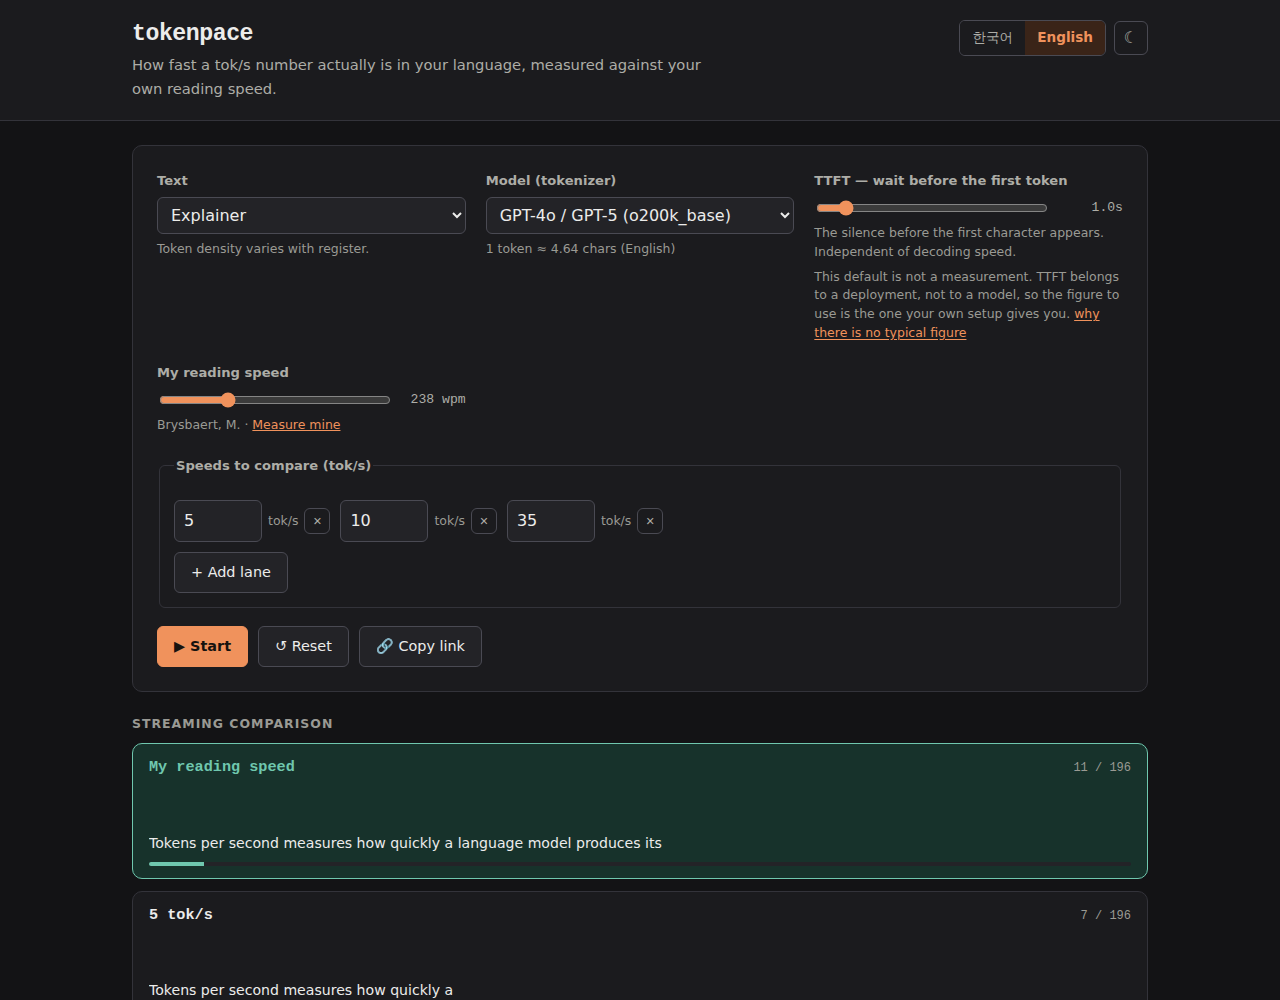
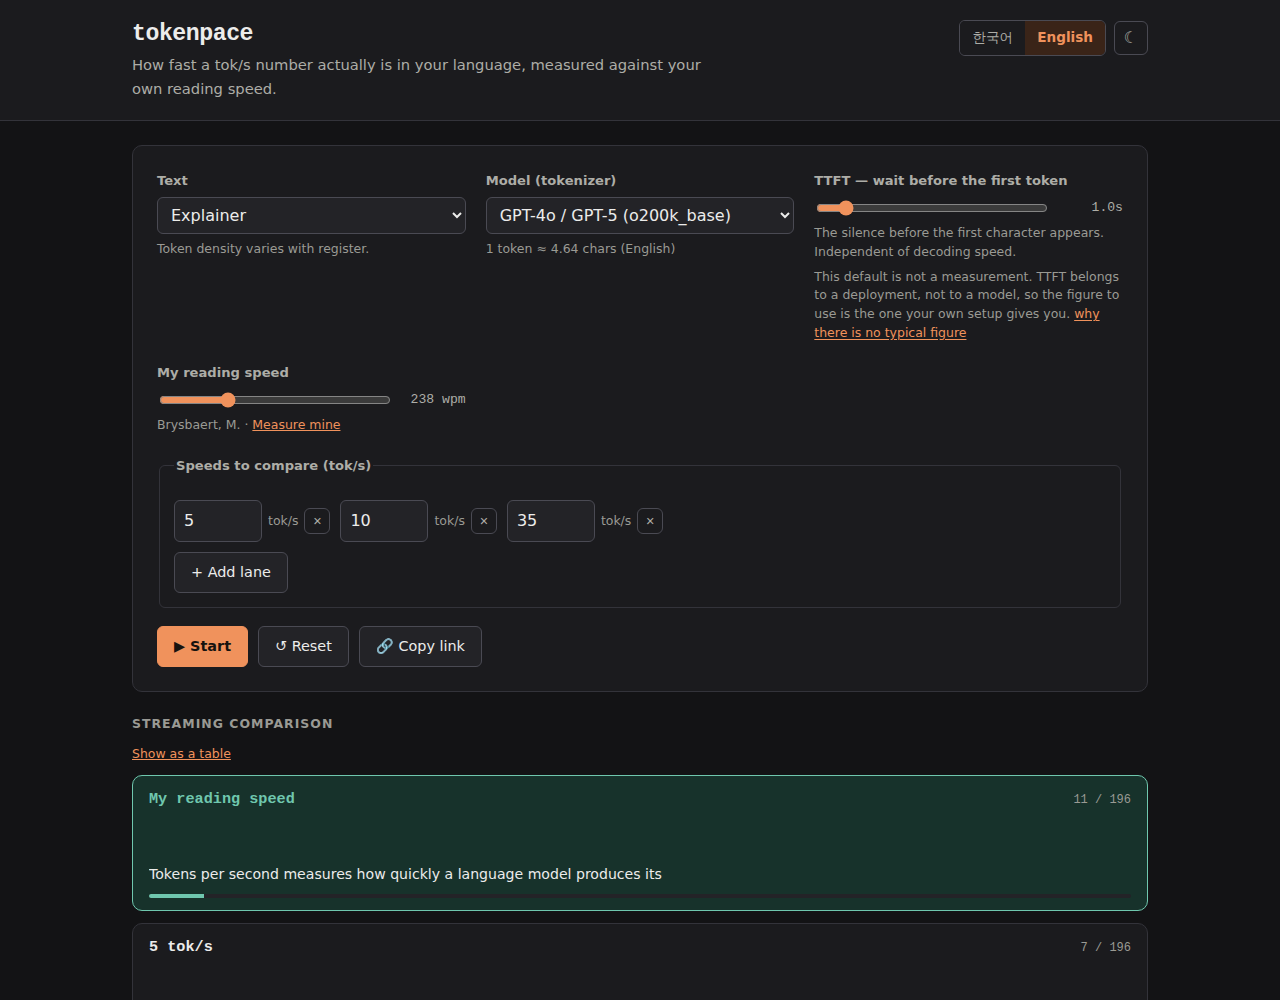
fix: one slider drag was queueing 15,000 characters of speech
axe passes on this page in four states and has done since the day it was
wired up. It reads a page standing still, so it cannot see how often a
live region changes — and that was the whole problem.

Measured it instead. Instrumented every live region in a real browser and
performed a realistic TTFT slider drag: 31 input events over 1.8 seconds,
which is one ordinary gesture. The verdict block carries aria-live and
renderVerdict() runs on every input event, so the drag replaced a
414-character region 33 times. Roughly fifteen thousand characters queued
for one gesture. The control is unusable with a screen reader.

The design decision recorded in the brief was "aria-live on the verdict,
never on the streaming text". Half of it was right for the wrong reason:
the streaming text is safe because nothing announces it, and playback
mutates the lanes about 1,700 times in six seconds. The other half was
simply wrong. The verdict is a section, and a live region should carry a
sentence.

So: one live region for the whole page, and one sentence at a time.
Dragging now costs a single 67-character announcement, once the value
settles. Nothing is announced until the visitor has actually interacted,
because speaking the verdict at someone who just arrived interrupts them
reading it.

Playback used to be silent — the race the page is built around simply did
not exist for a screen reader user. It now says how many lanes started
[…]

Changed region(s): [[0.0938, 0.837, 0.9062, 1.0], [0.0938, 0.744, 0.9062, 0.806]]

diff --git a/assets/js/main.js b/assets/js/main.js
@@ -252,6 +252,44 @@ function scheduleRerender() {
   }, 200);
 }
 
+/* ───────────────────────────────────────────────────────────── announcing */
+
+/**
+ * Everything a screen reader is told goes through one short live region.
+ *
+ * The verdict block used to carry aria-live itself, and renderVerdict() runs on
+ * every `input` event. Measured on 2026-09-03: a 1.8-second drag of the TTFT
+ * slider replaced a 414-character live region 32 times, queueing roughly
+ * thirteen thousand characters of speech for one gesture. The control was
+ * unusable with a screen reader while looking perfectly fine to axe, which has
+ * no way to see how often a region changes.
+ *
+ * Two rules follow. Announcements are a sentence, not a section — the detail
+ * stays on screen where it can be read at leisure. And a value being dragged
+ * announces when it settles, not while it moves.
+ */
+const announcer = () => document.getElementById('announcer');
+let announceTimer = null;
+/** Nothing is announced until the visitor has done something. Speaking the
+ *  verdict at someone who has just arrived interrupts them reading the page. */
+let announcementsArmed = false;
+export function armAnnouncements() { announcementsArmed = true; }
+
+function announce(text, { delay = 0 } = {}) {
+  if (!announcementsArmed) return;
+  clearTimeout(announceTimer);
+  const say = () => {
+    const node = announcer();
+    if (!node || node.textContent === text) return;
+    node.textContent = text;
+  };
+  if (delay) announceTimer = setTimeout(say, delay);
+  else say();
+}
+
+/** Should the lanes be a table rather than an animation? */
+const showTimeline = () => state.timeline ?? prefersReducedMotion();
+
 /* ────────────────────────────────────────────────────────────────── lanes */
 
 let laneNodes = [];
@@ -265,7 +303,13 @@ function renderLanes() {
 
   $('#reduced-motion-note').hidden = !prefersReducedMotion();
 
-  if (prefersReducedMotion()) {
+  const toggle = $('#view-toggle');
+  if (toggle) {
+    toggle.setAttribute('aria-pressed', String(showTimeline()));
+    toggle.textContent = showTimeline() ? t().viewAsLanes : t().viewAsTable;
+  }
+
+  if (showTimeline()) {
     list.replaceChildren(renderStaticTimeline(lanes));
     return;
   }
@@ -367,18 +411,31 @@ function paintFrame(elapsed) {
         ? `${t().laneDone} · ${finishTime(lane).toFixed(1)}s`
         : `${due} / ${lane.total}`;
     node.body.classList.toggle('is-waiting', waiting);
+
+    // A lane crossing the finish line is the one event during playback worth
+    // saying out loud. Announcing tokens would be unusable — the lanes mutate
+    // about 1,700 times in six seconds — but announcing nothing leaves a
+    // screen reader user with no access to the race the page is built around.
+    // Three lanes means three sentences over the whole run.
+    if (done && !node.announcedDone) {
+      node.announcedDone = true;
+      announce(t().laneFinished(lane.label, finishTime(lane).toFixed(1)));
+    }
   }
 }
 
 function play() {
-  if (prefersReducedMotion()) return;
+  if (showTimeline()) return;
   stop();
   renderLanes();
   const lanes = laneNodes.map((n) => n.lane);
   if (!lanes.length || !lanes[0].total) return;
 
+  for (const node of laneNodes) node.announcedDone = false;
+
   const end = Math.max(...lanes.map(finishTime));
   clock.start();
+  announce(t().playStarted(lanes.length));
   state.hiddenForSeconds = 0;
   $('#play').textContent = t().playing;
 
@@ -486,6 +543,13 @@ function renderVerdict() {
   }
 
   box.replaceChildren(...nodes);
+
+  // One sentence, after the value stops moving. The detail is on screen; what
+  // a live region owes someone is the answer, not the whole section again.
+  const fastest = Math.max(...state.speeds);
+  announce(s.verdictAnnounce(fastest, (fastest / readingTps).toFixed(1), readingTps.toFixed(1)), {
+    delay: 500,
+  });
 }
 
 /* ─────────────────────────────────────────────────────────────── evidence */
@@ -638,6 +702,23 @@ function wire() {
       commit();
     });
   }
+
+  // Reduced motion turns the lanes into a table, and until 2026-09-03 that was
+  // the only way to get one. But the people least served by an animation are
+  // not the same set as the people who asked the OS to reduce motion — a
+  // screen reader user who never touched that setting got the animation and no
+  // equivalent. The setting still picks the default; it no longer decides.
+  // Any deliberate interaction arms the live region. Pointer, key or touch —
+  // whichever came first, the visitor is now driving.
+  for (const ev of ['pointerdown', 'keydown', 'touchstart']) {
+    document.addEventListener(ev, armAnnouncements, { once: true, passive: true });
+  }
+
+  $('#view-toggle').addEventListener('click', () => {
+    state.timeline = !showTimeline();
+    stop();
+    renderLanes();
+  });
 
   $('#theme-toggle').addEventListener('click', () => {
     state.theme = { auto: 'light', light: 'dark', dark: 'auto' }[state.theme];

diff --git a/assets/js/i18n.js b/assets/js/i18n.js
@@ -44,6 +44,14 @@ export const STRINGS = {
     snapshotAt: (t) => `${t}초 시점`,
     resumedAfterHidden: (s) => `탭이 가려진 ${s}초 동안 시계를 멈췄습니다.`,
 
+    // 화면에 안 보이는 안내 문구. 화면에는 이미 쓰여 있고, 이건 읽어 주는 쪽을 위한 것이다.
+    viewAsTable: '표로 보기',
+    viewAsLanes: '움직이는 레인으로 보기',
+    playStarted: (n) => `${n}개 레인 재생을 시작합니다.`,
+    laneFinished: (label, secs) => `${label} 완료, ${secs}초.`,
+    verdictAnnounce: (speed, ratio, readingTps) =>
+      `가장 빠른 레인 ${speed} tok/s 는 읽기 속도 ${readingTps} tok/s 의 ${ratio}배입니다. 자세한 내용은 판정 항목에 있습니다.`,
+
     verdictHeading: '판정',
     verdictIntro: (tps, unit) =>
       `내 읽기 속도 ${unit} → 이 토크나이저·언어에서 <strong>${tps} tok/s</strong> 에 해당합니다.`,
@@ -137,6 +145,15 @@ export const STRINGS = {
     laneDone: 'Done',
     snapshotAt: (t) => `at ${t}s`,
     resumedAfterHidden: (s) => `Clock paused for ${s}s while the tab was hidden.`,
+
+    // Never shown. The screen already carries this; these are for the reader
+    // that speaks, which needs a sentence rather than a section.
+    viewAsTable: 'Show as a table',
+    viewAsLanes: 'Show as moving lanes',
+    playStarted: (n) => `Playing ${n} lanes.`,
+    laneFinished: (label, secs) => `${label} finished at ${secs} seconds.`,
+    verdictAnnounce: (speed, ratio, readingTps) =>
+      `The fastest lane, ${speed} tok/s, is ${ratio} times reading speed of ${readingTps} tok/s. The verdict section has the detail.`,
 
     verdictHeading: 'Verdict',
     verdictIntro: (tps, unit) =>

diff --git a/index.html b/index.html
@@ -130,13 +130,16 @@
     <p class="reduced-motion-note" id="reduced-motion-note" hidden data-i18n="reducedMotionNote">
       시스템 설정이 「모션 줄이기」라서 애니메이션 대신 시간대별 스냅샷으로 보여줍니다.
     </p>
+    <p class="view-toggle">
+      <button type="button" id="view-toggle" class="linklike" aria-pressed="false" data-i18n="viewAsTable">표로 보기</button>
+    </p>
     <div id="lane-list" class="lane-list"></div>
   </section>
 
   <!-- ─────────────────────────────────────────────── verdict -->
   <section class="panel" aria-labelledby="verdict-h">
     <h2 id="verdict-h" class="section-h" data-i18n="verdictHeading">판정</h2>
-    <div id="verdict" class="verdict" aria-live="polite"></div>
+    <div id="verdict" class="verdict"></div>
   </section>
 
   <!-- ─────────────────────────────────────────────── evidence -->
@@ -144,6 +147,11 @@
     <h2 id="evidence-h" class="section-h" data-i18n="evidenceHeading">이 숫자는 어디서 왔나</h2>
     <div id="evidence"></div>
   </section>
+
+  <!-- The page's only live region. Everything a screen reader is told goes
+       through here, one short sentence at a time, so nothing can queue a
+       paragraph behind a slider. -->
+  <p id="announcer" class="sr-only" role="status"></p>
 
 </main>
 

diff --git a/assets/css/app.css b/assets/css/app.css
@@ -342,6 +342,7 @@ textarea { resize: vertical; font-size: .9rem; line-height: 1.6; }
 .evidence-line strong { color: var(--text); }
 .evidence-line.muted { color: var(--text-faint); }
 .fidelity--approximate { color: var(--warn); }
+.view-toggle { margin-block: 0 10px; font-size: .84rem; }
 .verdict-scope { margin-block-start: 14px; font-size: .84rem; color: var(--text-muted); border-inline-start: 2px solid var(--border-strong); padding-inline-start: 10px; }
 .caveats { margin-block-start: 12px; font-size: .82rem; color: var(--text-muted); }
 .caveats summary { cursor: pointer; color: var(--text); font-weight: 600; }

diff --git a/README.md b/README.md
@@ -224,9 +224,20 @@ fix and [`tests/site.test.mjs`](tests/site.test.mjs) pins it.
 
 **Accessibility.** The page is an animation by nature, which makes
 `prefers-reduced-motion` a correctness requirement rather than a nicety. Under
-it, the lanes become a table of timed snapshots carrying the same information.
-`aria-live` is on the verdict, never on the streaming text — announcing every
-token would make a screen reader unusable.
+it, the lanes become a table of timed snapshots carrying the same information —
+and a button offers that table to everyone else too, because the people an
+animation serves worst are not the same set as the people who asked their OS to
+reduce motion.
+
+Announcements are treated as a budget rather than a feature. The page has one
+live region, and what goes into it is a sentence. That is a correction: the
+verdict block used to carry `aria-live` itself and is re-rendered on every
+`input` event, so dragging the TTFT slider for under two seconds queued 33
+announcements and roughly fifteen thousand characters of speech — with axe
+reporting a clean page, because axe reads a page standing still and has no way
+to see how often a region changes. `tools/check-a11y.mjs` now performs the drag
+and fails if one gesture costs more than three announcements or 400 characters;
+the same drag costs one announcement of 67 characters today.
 
 ![Under reduced motion the lanes become a table of timed snapshots, followed by the verdict and the sources](docs/screenshots/site-reduced-motion.png)
 

diff --git a/docs/BRIEF.md b/docs/BRIEF.md
@@ -111,7 +111,12 @@ v1 §2-2-3 은 판정문 예시로 *"35 t/s는 한국어 읽기 속도에 아직
 - **자기 읽기 속도 측정** — 지문을 띄우고 다 읽으면 누르게 해서 개인값을 얻는다.
   출처 SD 가 평균의 63% 라 인구 평균으로 개인을 판정하는 것은 정직하지 않다. 아무도 안 한다
 - **접근성** — `prefers-reduced-motion` 시 스트리밍 대신 정적 타임라인. 본체가 모션인 사이트라
-  이건 옵션이 아니다. `aria-live` 는 스트리밍 본문이 아니라 판정문에만 건다
+  이건 옵션이 아니다. ~~`aria-live` 는 스트리밍 본문이 아니라 판정문에만 건다~~
+  → **개정 (2026-09-03)**: 판정문에도 안 건다. 판정 블록은 `input` 마다 통째로 다시 그려지므로
+  거기 `aria-live` 를 걸면 슬라이더 한 번 끄는 데 33건·15,000자가 큐에 쌓인다(실측).
+  라이브 영역은 페이지에 **하나**, 들어가는 것은 **한 문장**. 재생 중에는 토큰이 아니라
+  레인 완주만 알린다. 정적 타임라인도 `prefers-reduced-motion` 에 가두지 않고 버튼으로 연다 —
+  애니메이션이 가장 불리한 사람과 OS 설정을 바꾼 사람은 같은 집합이 아니다
 - 결과 공유용 URL 파라미터(`?tps=5,10,35&ttft=1.2&lang=ko&tok=o200k_base`)
 - 다크/라이트, 모바일 세로 레이아웃 — 이런 페이지는 폰에서 열릴 확률이 높다
 
